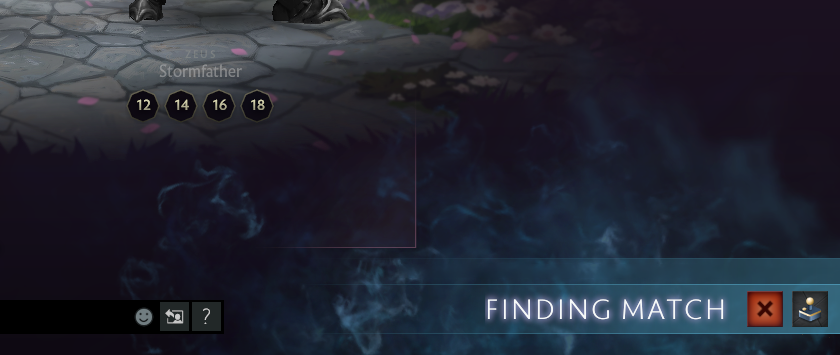
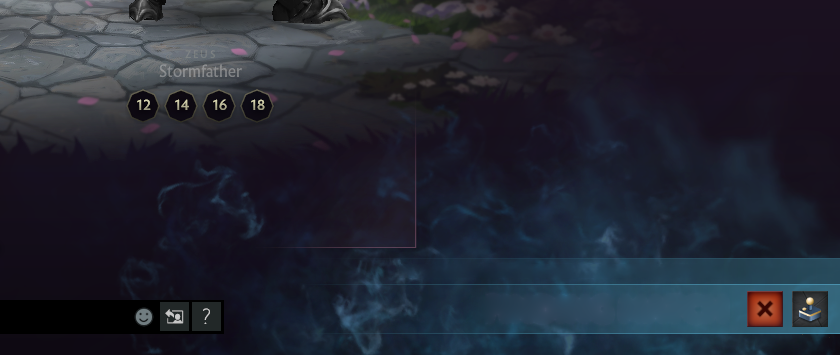
fix: localize finding match overlay

Changed region(s): [[0.5571, 0.8366, 0.8667, 0.9296]]

diff --git a/src/components/Overlay/main/FindMatch.tsx b/src/components/Overlay/main/FindMatch.tsx
@@ -1,5 +1,6 @@
 import { motion } from 'framer-motion'
 import { Settings } from '@/lib/defaultSettings'
+import { getDotaFindingMatchLabel } from '@/lib/dotaFindingMatchLabel'
 import { useTransformRes } from '@/lib/hooks/useTransformRes'
 import { useUpdateSetting } from '@/lib/hooks/useUpdateSetting'
 import { motionProps } from '@/ui/utils'
@@ -8,6 +9,7 @@ import { MatchTimer } from './MatchTimer'
 export const FindMatch = () => {
   const res = useTransformRes()
   const { data: isFindingMatchEnabled } = useUpdateSetting(Settings.queueBlockerFindMatch)
+  const { original: settings } = useUpdateSetting()
 
   return (
     <>
@@ -91,6 +93,26 @@ export const FindMatch = () => {
           alt='Finding Match'
           className='rounded-lg'
         />
+
+        {isFindingMatchEnabled && (
+          <span
+            data-testid='finding-match-label'
+            style={{
+              bottom: res({ h: 28 }),
+              fontSize: res({ w: 28 }),
+              letterSpacing: res({ w: 2.5 }),
+              right: res({ w: 112 }),
+              textShadow: `0 0 ${res({ w: 4 })}px rgba(222, 242, 255, 0.9), 0 0 ${res({
+                w: 8,
+              })}px rgba(222, 242, 255, 0.35), 0 ${res({
+                h: 1,
+              })}px ${res({ w: 2 })}px rgba(0, 0, 0, 0.95)`,
+            }}
+            className='absolute z-10 whitespace-nowrap font-[Radiance] font-light uppercase leading-none text-[#e8eef2]'
+          >
+            {getDotaFindingMatchLabel(settings.locale)}
+          </span>
+        )}
       </motion.div>
     </>
   )

diff --git a/src/__tests__/components/Overlay/FindMatch.test.tsx b/src/__tests__/components/Overlay/FindMatch.test.tsx
@@ -1,0 +1,42 @@
+import { render, screen } from '@testing-library/react'
+import { describe, expect, it, vi } from 'vite-plus/test'
+import { FindMatch } from '@/components/Overlay/main/FindMatch'
+import { Settings } from '@/lib/defaultSettings'
+
+vi.mock('framer-motion', () => ({
+  motion: {
+    div: ({ children, ...props }: React.HTMLAttributes<HTMLDivElement>) => (
+      <div {...props}>{children}</div>
+    ),
+  },
+}))
+
+vi.mock('@/components/Overlay/main/MatchTimer', () => ({
+  MatchTimer: () => <div data-testid='match-timer' />,
+}))
+
+vi.mock('@/lib/hooks/useTransformRes', () => ({
+  useTransformRes:
+    () =>
+    ({ h = 0, w = 0 }: { h?: number; w?: number }) =>
+      h || w,
+}))
+
+vi.mock('@/lib/hooks/useUpdateSetting', () => ({
+  useUpdateSetting: (key?: string) => ({
+    data: key === Settings.queueBlockerFindMatch ? true : undefined,
+    original: { locale: 'ru-RU' },
+  }),
+}))
+
+describe('FindMatch', () => {
+  it('renders the active queue label in the streamer locale over the blank asset', () => {
+    render(<FindMatch />)
+
+    expect(screen.getByTestId('finding-match-label')).toHaveTextContent('Поиск игры')
+    expect(screen.getByAltText('Finding Match')).toHaveAttribute(
+      'src',
+      '/images/overlay/finding-match.png',
+    )
+  })
+})

diff --git a/src/lib/dotaFindingMatchLabel.ts b/src/lib/dotaFindingMatchLabel.ts
@@ -1,0 +1,32 @@
+const DOTA_FINDING_MATCH_LABELS: Readonly<Record<string, string>> = {
+  'cs-CZ': 'Vyhledávání zápasu',
+  'da-DK': 'Finder kamp',
+  'de-DE': 'Partie wird gesucht',
+  'el-GR': 'Εύρεση παιχνιδιού',
+  en: 'Finding Match',
+  'es-ES': 'Buscando partida',
+  'fi-FI': 'Etsitään peliä',
+  'fr-FR': 'Recherche de match',
+  'hu-HU': 'Játékkeresés',
+  'it-IT': 'In cerca di una partita',
+  'ja-JP': 'マッチを検索する',
+  'ko-KR': '매치 찾는 중',
+  'nl-NL': 'Match zoeken',
+  'no-NO': 'Finner kamp',
+  'pl-PL': 'Szukanie meczu',
+  'pt-BR': 'Buscando partida',
+  'pt-PT': 'A procurar',
+  'ro-RO': 'Se caută meci',
+  'ru-RU': 'Поиск игры',
+  'sv-SE': 'Söker match',
+  'th-TH': 'กำลังค้นหาแมตช์',
+  'tr-TR': 'Maç Aranıyor',
+  'uk-UA': 'Пошук матчу',
+  'vi-VN': 'Đang tìm trận',
+  'zh-CN': '寻找比赛',
+  'zh-TW': '搜尋比賽中',
+}
+
+export function getDotaFindingMatchLabel(locale?: string | null): string {
+  return (locale && DOTA_FINDING_MATCH_LABELS[locale]) || DOTA_FINDING_MATCH_LABELS.en
+}

diff --git a/src/__tests__/lib/dotaFindingMatchLabel.test.ts b/src/__tests__/lib/dotaFindingMatchLabel.test.ts
@@ -1,0 +1,22 @@
+import { describe, expect, it } from 'vite-plus/test'
+import { getDotaFindingMatchLabel } from '@/lib/dotaFindingMatchLabel'
+
+describe('getDotaFindingMatchLabel', () => {
+  it.each([
+    ['en', 'Finding Match'],
+    ['de-DE', 'Partie wird gesucht'],
+    ['es-ES', 'Buscando partida'],
+    ['fr-FR', 'Recherche de match'],
+    ['ru-RU', 'Поиск игры'],
+    ['uk-UA', 'Пошук матчу'],
+    ['zh-CN', '寻找比赛'],
+    ['zh-TW', '搜尋比賽中'],
+  ])('uses Dota localization for %s', (locale, expected) => {
+    expect(getDotaFindingMatchLabel(locale)).toBe(expected)
+  })
+
+  it('falls back to Dota English for missing or unsupported locales', () => {
+    expect(getDotaFindingMatchLabel()).toBe('Finding Match')
+    expect(getDotaFindingMatchLabel('ar-SA')).toBe('Finding Match')
+  })
+})

diff --git a/src/__tests__/pages/api/settings.test.ts b/src/__tests__/pages/api/settings.test.ts
@@ -55,6 +55,7 @@ function createSettingsResult() {
     Account: [{ providerAccountId: 'twitch-id' }],
     SteamAccount: [],
     beta_tester: false,
+    locale: 'ru-RU',
     mmr: 1234,
     settings: [
       { key: 'obsServerPassword', value: 'super-secret' },
@@ -85,7 +86,13 @@ describe('settings API', () => {
 
     expect(res.statusCode).toBe(200)
     expect(res.getHeader('Cache-Control')).toBe('private, no-store')
+    expect(res._getJSONData().locale).toBe('ru-RU')
     expect(res._getJSONData().settings).toEqual([{ key: 'aegis', value: true }])
+    expect(prisma.user.findFirst).toHaveBeenCalledWith(
+      expect.objectContaining({
+        select: expect.objectContaining({ locale: true }),
+      }),
+    )
   })
 
   it('returns the public Twitch channel id used by the live profile counter', async () => {

diff --git a/src/pages/api/settings/index.ts b/src/pages/api/settings/index.ts
@@ -196,6 +196,7 @@ async function handler(req: NextApiRequest, res: NextApiResponse) {
             },
           },
           beta_tester: true,
+          locale: true,
           mmr: true,
           settings: {
             select: {

diff --git a/src/lib/hooks/useUpdateSetting.tsx b/src/lib/hooks/useUpdateSetting.tsx
@@ -32,6 +32,7 @@ interface SettingEntry {
 
 interface SettingsData {
   settings?: SettingEntry[]
+  locale?: string | null
   mmr?: number | null
   rankOnly?: RankOnlyInfo
   Account?: {

diff --git a/src/styles/tailwind.css b/src/styles/tailwind.css
@@ -141,7 +141,7 @@
   @font-face {
     font-family: 'Radiance';
     src: url('/fonts/radiance-light.otf') format('opentype');
-    font-weight: thin;
+    font-weight: 300;
   }
 }
 
